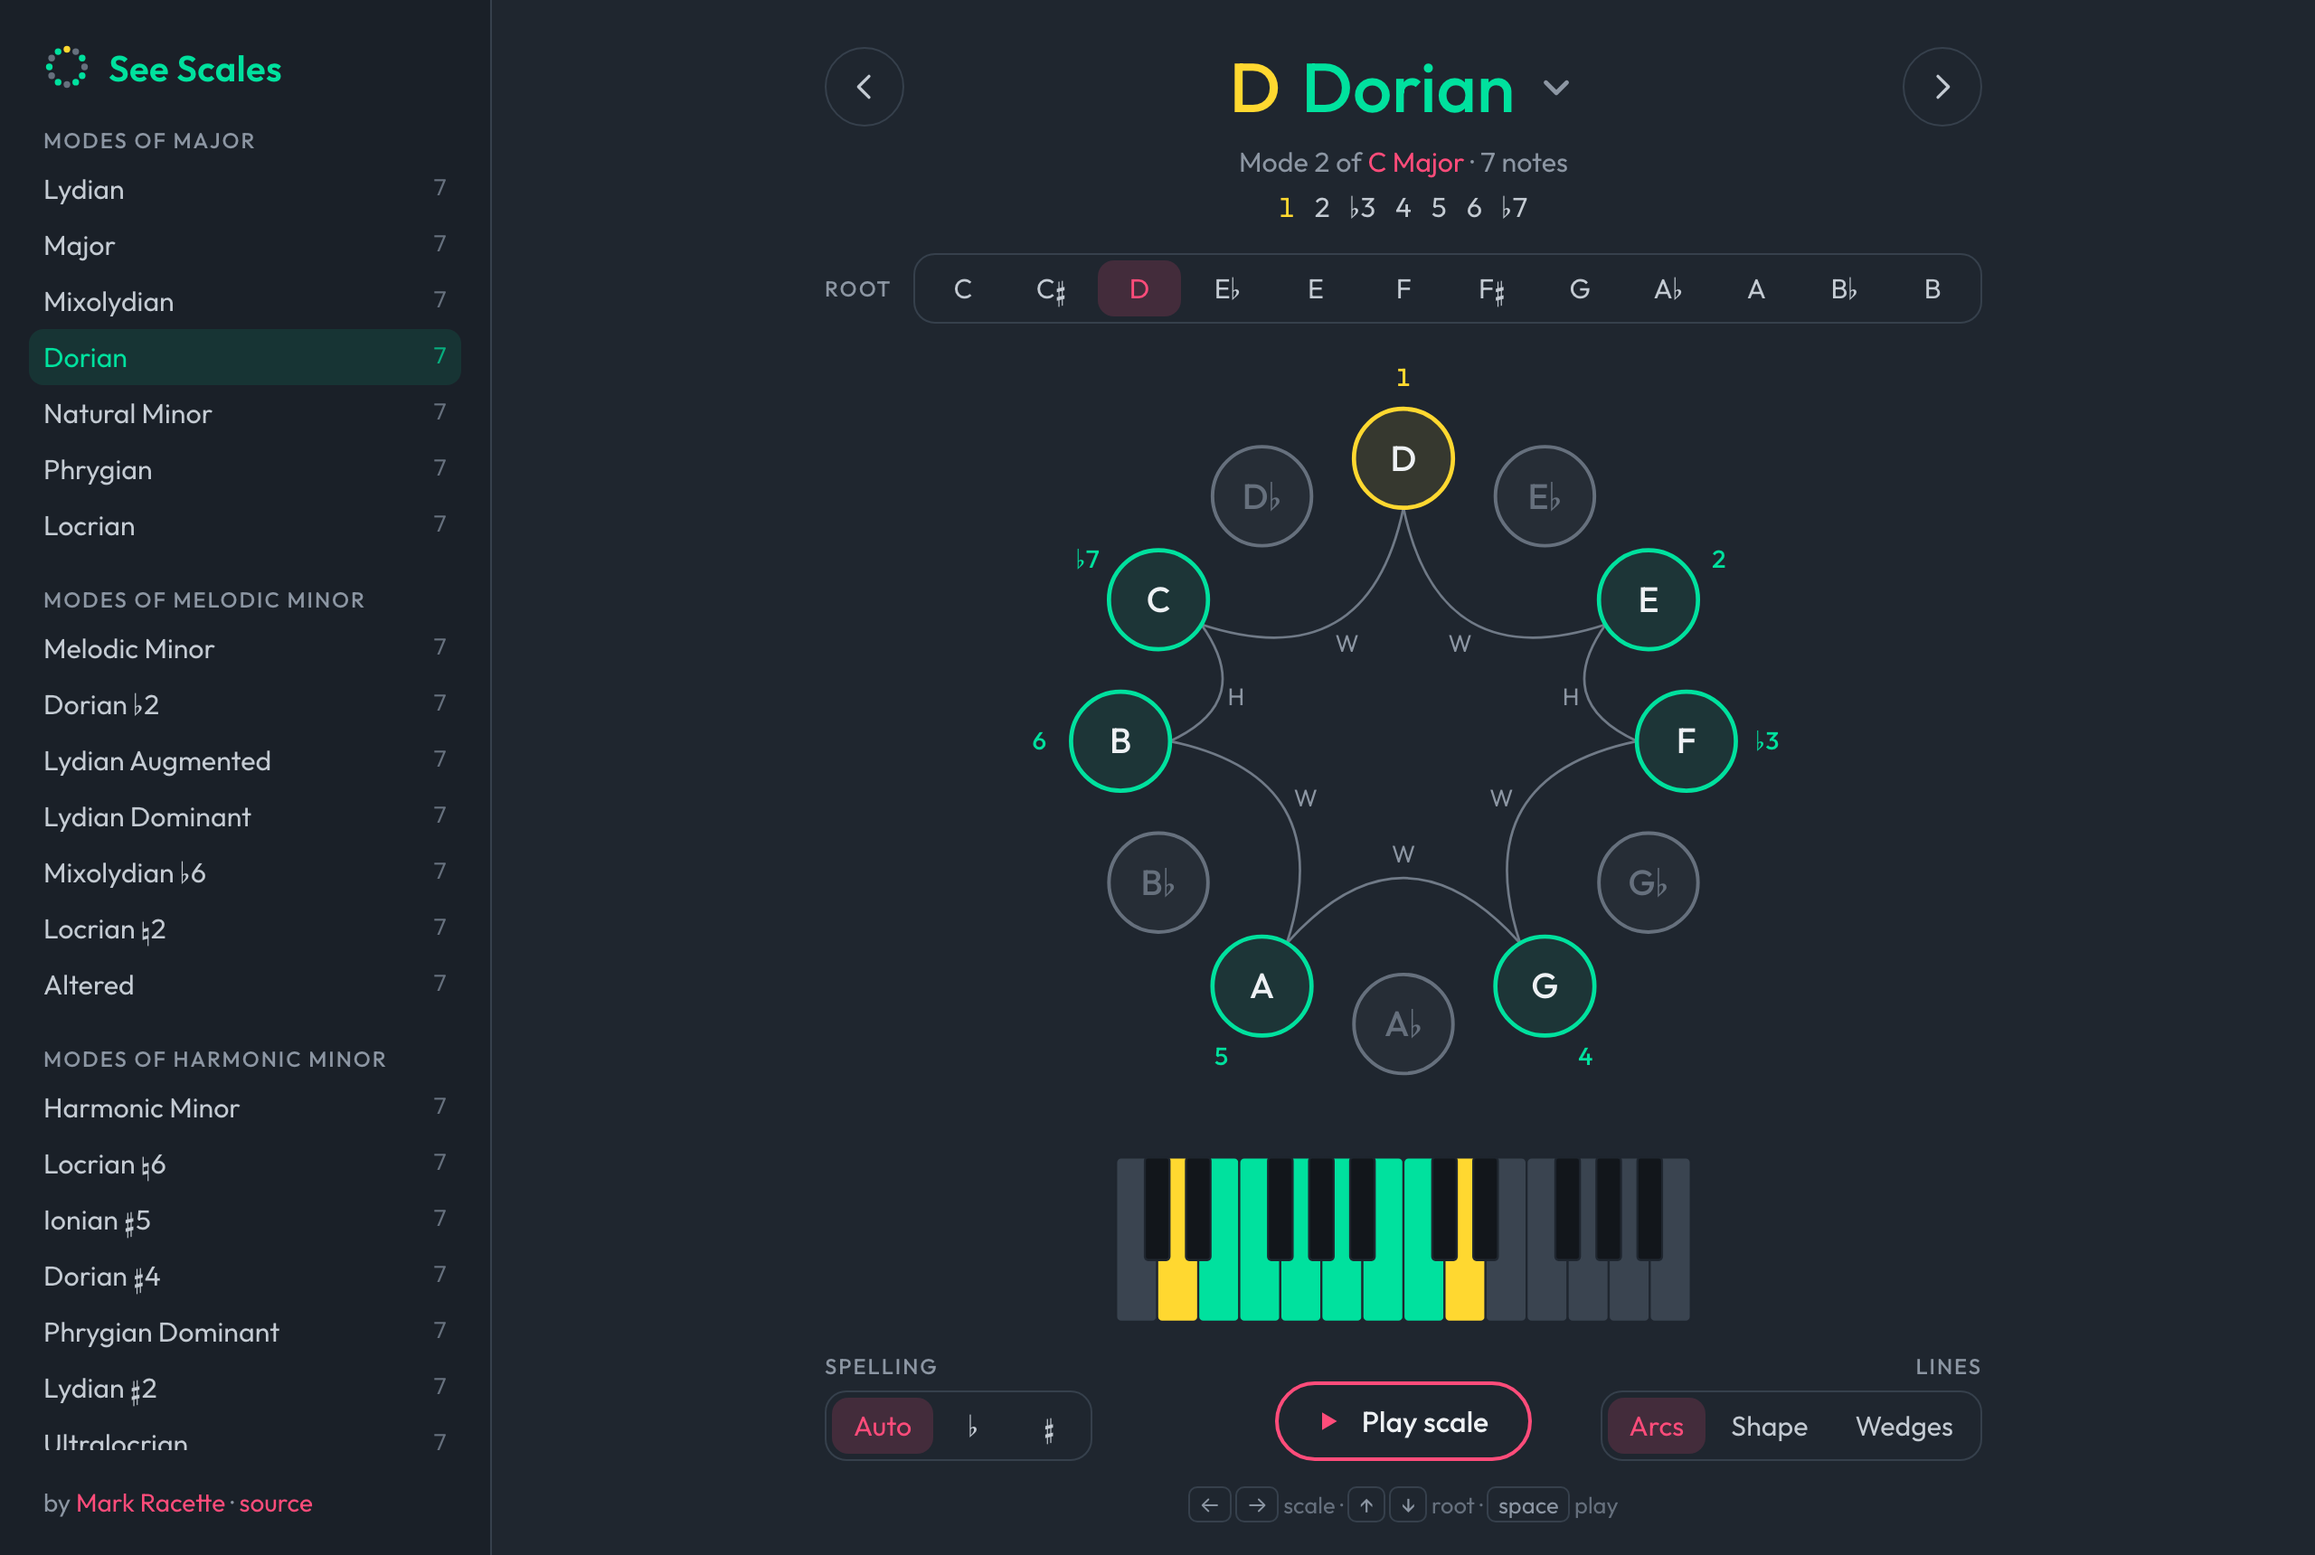
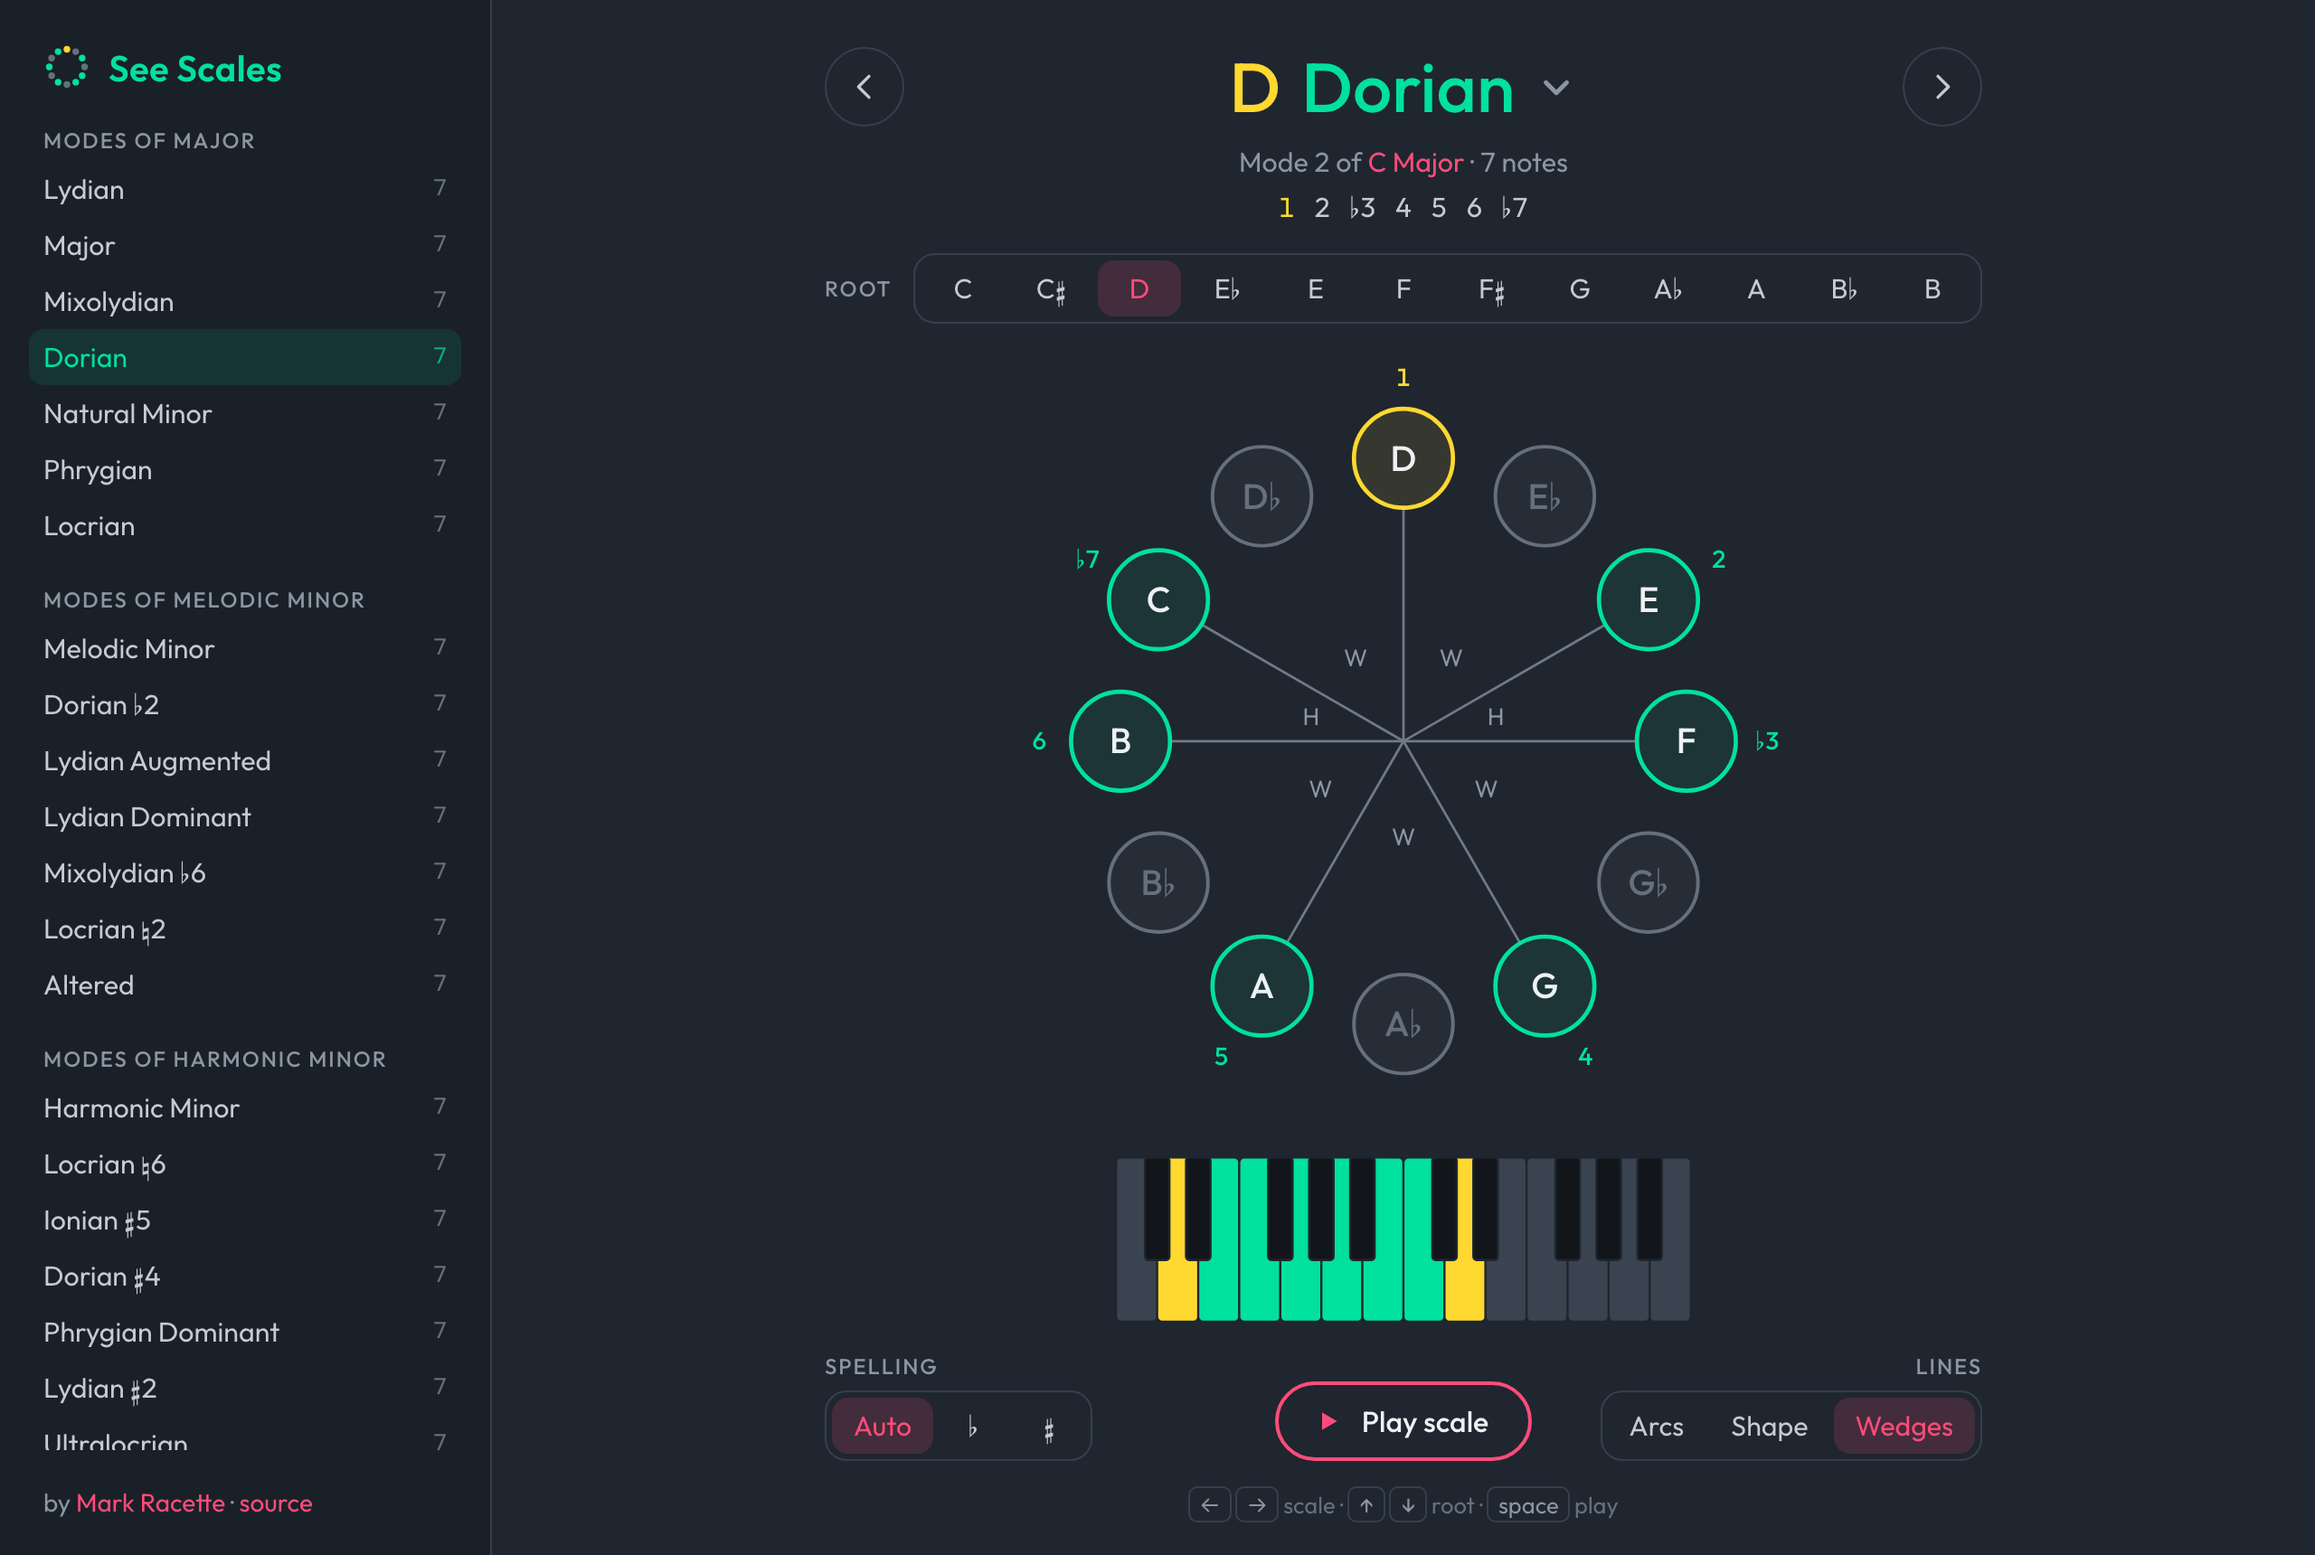
Default to wedge lines

diff --git a/src/state.ts b/src/state.ts
@@ -61,7 +61,7 @@ export function initialState(): AppState {
     scaleId: DEFAULT_SCALE_ID,
     rootPitch: 0,
     spelling: readStored(SPELLING_KEY, SPELLINGS, "auto"),
-    lineStyle: readStored(LINE_STYLE_KEY, LINE_STYLES, "arcs"),
+    lineStyle: readStored(LINE_STYLE_KEY, LINE_STYLES, "wedges"),
   };
   return { ...defaults, ...readHash(window.location.hash, defaults.spelling) };
 }
